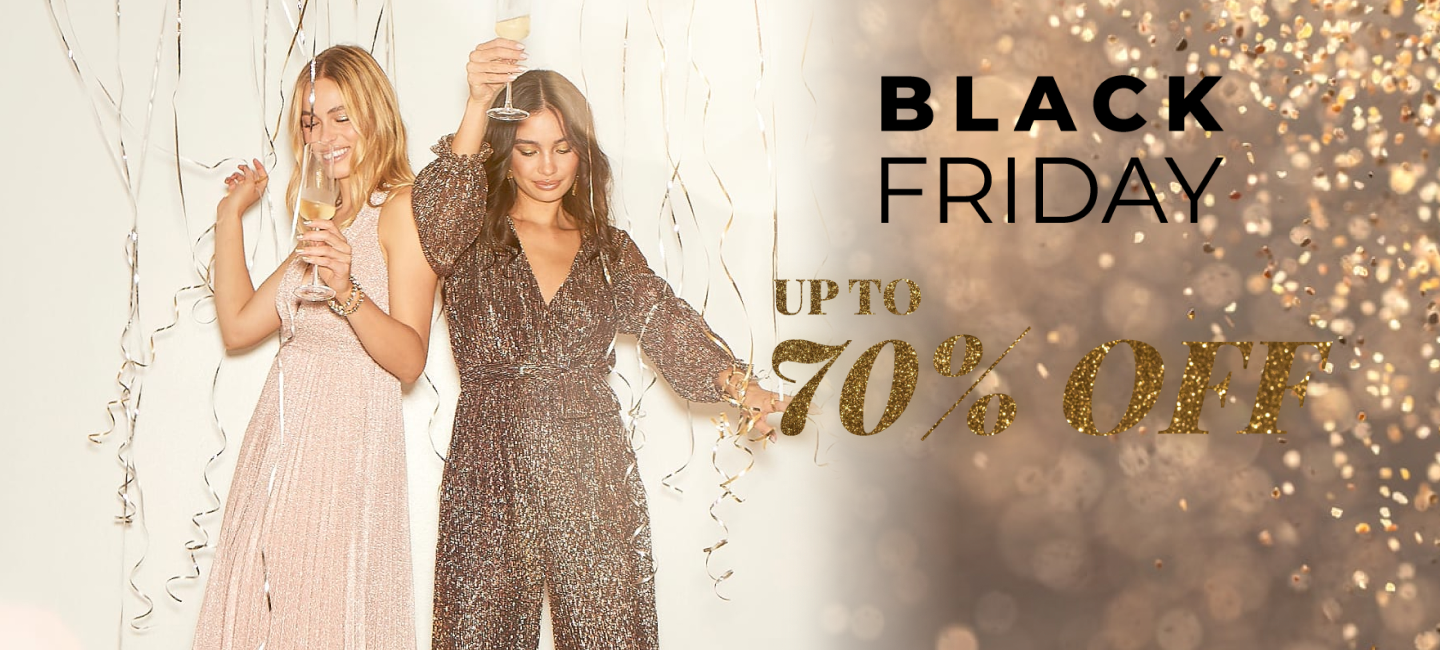
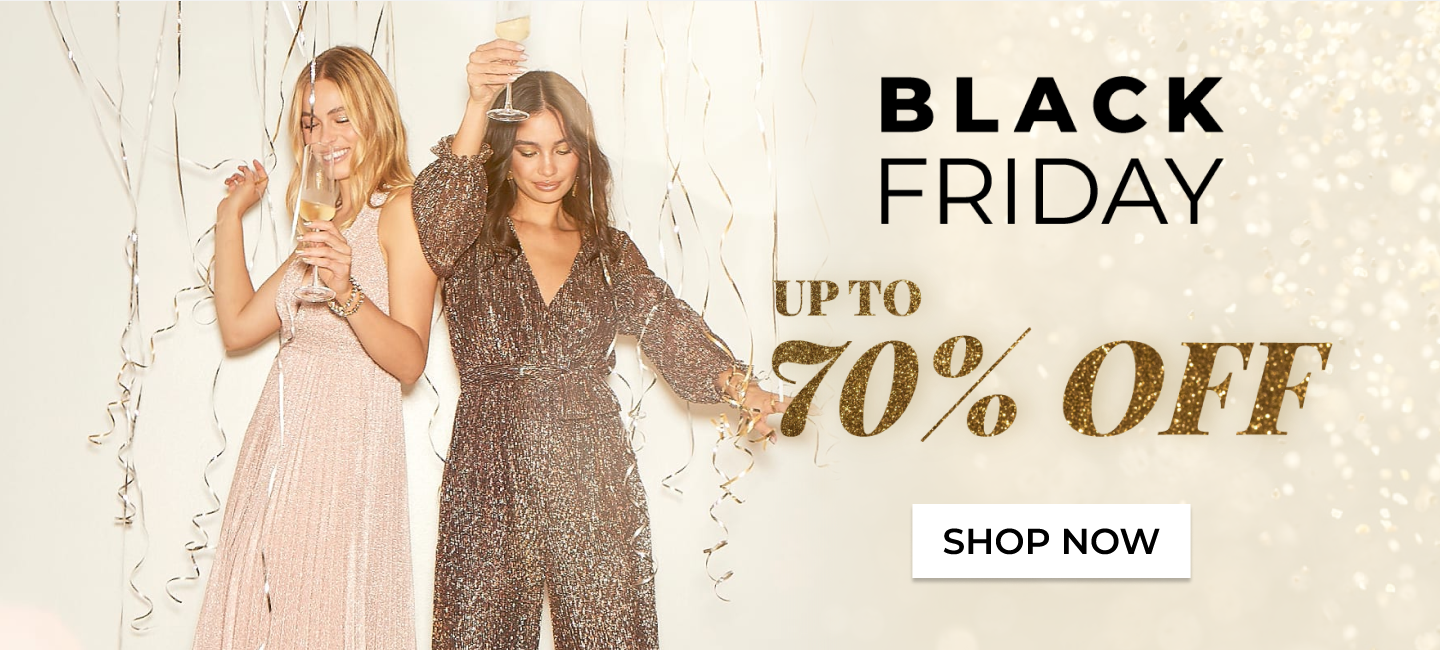
add changes for header and hero

diff --git a/index.html b/index.html
@@ -13,64 +13,64 @@
 </head>
 <body>
     <header>
-        <nav>
-            <div class="left-nav">
-                <ul>
-                    <li><a href="#" class="active">Women</a></li>
-                    <li><a href="#">Plus</a></li>
-                    <li><a href="#">Men</a></li>
-                    <li><a href="#">Accessories</a></li>
-                </ul>
-            </div>
-            <img src="./img/Logo.svg" alt="Threaded Logo">
-            <div class="right-nav">
-                <ul>
-                    <li><a href="#"><img src="./img/icons/bx_bx-user.svg" alt="User"></a></li>
-                    <li><a href="#"><img src="./img/icons/bx_bx-shopping-bag.svg" alt="Shopping Bag"></a></li>
-                    <li><a href="#"><img src="./img/icons/bx_bx-heart.svg" alt="Heart"></a></li>
-                    <li><a href="#"><img src="./img/icons/bx_bx-support.svg" alt="Support"></a></li>                    
-                </ul>
-                <div class="btn-currency">
-                    <img src="./img/icons/currency-US.png" alt="US Flag">
-                    <p>USD $</p>
-                    <svg width="10" height="10" viewBox="0 0 10 10" fill="none" xmlns="http://www.w3.org/2000/svg">
-                        <path d="M8.63283 2.5H7.90041C7.8506 2.5 7.80373 2.52441 7.77443 2.56445L5.00001 6.38867L2.22559 2.56445C2.19629 2.52441 2.14942 2.5 2.09961 2.5H1.36719C1.30371 2.5 1.2666 2.57227 1.30371 2.62402L4.74708 7.37109C4.87208 7.54297 5.12794 7.54297 5.25196 7.37109L8.69533 2.62402C8.73342 2.57227 8.69631 2.5 8.63283 2.5Z" fill="black"/>
-                    </svg>
-                </div>
+        <nav class="left-nav">
+            <ul>
+                <li><a href="#" class="active">Women</a></li>
+                <li><a href="#">Plus</a></li>
+                <li><a href="#">Men</a></li>
+                <li><a href="#">Accessories</a></li>
+            </ul>
+        </nav>
+        <img src="./img/Logo.svg" alt="Threaded Logo">
+        <nav class="right-nav">
+            <ul>
+                <li><a href="#"><img src="./img/icons/bx_bx-user.svg" alt="User"></a></li>
+                <li><a href="#"><img src="./img/icons/bx_bx-shopping-bag.svg" alt="Shopping Bag"></a></li>
+                <li><a href="#"><img src="./img/icons/bx_bx-heart.svg" alt="Heart"></a></li>
+                <li><a href="#"><img src="./img/icons/bx_bx-support.svg" alt="Support"></a></li>                    
+            </ul>
+            <div class="btn-currency">
+                <img src="./img/icons/currency-US.png" alt="US Flag">
+                <p>USD $</p>
+                <svg width="10" height="10" viewBox="0 0 10 10" fill="none" xmlns="http://www.w3.org/2000/svg">
+                    <path d="M8.63283 2.5H7.90041C7.8506 2.5 7.80373 2.52441 7.77443 2.56445L5.00001 6.38867L2.22559 2.56445C2.19629 2.52441 2.14942 2.5 2.09961 2.5H1.36719C1.30371 2.5 1.2666 2.57227 1.30371 2.62402L4.74708 7.37109C4.87208 7.54297 5.12794 7.54297 5.25196 7.37109L8.69533 2.62402C8.73342 2.57227 8.69631 2.5 8.63283 2.5Z" fill="black"/>
+                </svg>
             </div>
         </nav>
-        <div class="benefits">
-            <ul>
-                <li>
-                    <img src="./img/icons/bx_bx-crown.svg" alt="Crown">
-                    <span>Exclusive Deals for VIP 2 and up!</span>
-                </li>
-                <li>
-                    <img src="./img/icons/bx_bx-star.svg" alt="Crown">
-                    <span>Weekly New Arrivals</span>
-                </li>
-                <li>
-                    <img src="./img/icons/bx_bx-truck.svg" alt="Crown">
-                    <span>Free Shipping On Orders Over $100</span>
-                </li>
-                <li>
-                    <img src="./img/icons/bx_bx-map-pin.svg" alt="Crown">
-                    <span>Track Your Order</span>
-                </li>
-                <li>
-                    <img src="./img/icons/bx_bx-purchase-tag.svg" alt="Crown">
-                    <span>10% Off On Your First Order!</span>
-                </li>
-            </ul>
-        </div>
     </header>
 
-    <main>
-        <img src="./img/hero1.png" alt="black friday banner">
-        <button>Shop Now</button>
+    <section class="benefits">
+        <ul>
+            <li>
+                <img src="./img/icons/bx_bx-crown.svg" alt="Crown">
+                <span>Exclusive Deals for VIP 2 and up!</span>
+            </li>
+            <li>
+                <img src="./img/icons/bx_bx-star.svg" alt="Crown">
+                <span>Weekly New Arrivals</span>
+            </li>
+            <li>
+                <img src="./img/icons/bx_bx-truck.svg" alt="Crown">
+                <span>Free Shipping On Orders Over $100</span>
+            </li>
+            <li>
+                <img src="./img/icons/bx_bx-map-pin.svg" alt="Crown">
+                <span>Track Your Order</span>
+            </li>
+            <li>
+                <img src="./img/icons/bx_bx-purchase-tag.svg" alt="Crown">
+                <span>10% Off On Your First Order!</span>
+            </li>
+        </ul>
+    </section>
+
+    <main class="container">
+        <a href="#">
+            <img src="./img/hero1.png" alt="black friday banner">    
+        </a>
     </main>
 
-    <section class="deals">
+    <section class="container" id="deals">
         <div>
             <h3>$5 <span>off</span></h3>
             <p>on orders above $50</p>

diff --git a/css/main.css b/css/main.css
@@ -1,0 +1,109 @@
+*, *::before, *::after {
+  box-sizing: border-box;
+}
+
+* {
+  margin: 0;
+  padding: 0;
+  font: inherit;
+}
+
+html {
+  font-size: 62.5%;
+}
+
+body {
+  min-height: 100vh;
+}
+
+img {
+  display: block;
+}
+
+a {
+  text-decoration: none;
+  color: black;
+}
+
+ul {
+  list-style: none;
+}
+
+body {
+  font-family: "Montserrat", sans-serif;
+}
+
+li a:hover {
+  font-weight: 600;
+}
+
+.btn {
+  padding: 1em 2em;
+  background-color: #FFFFFF;
+  text-transform: uppercase;
+  font-size: 1.8rem;
+  font-weight: 600;
+}
+
+.btn-currency {
+  display: flex;
+  align-items: center;
+  padding: 0.6em;
+  border: 1px solid #F2F2F2;
+  border-radius: 3.5em;
+  cursor: pointer;
+}
+.btn-currency p {
+  margin-left: 0.3em;
+  margin-right: 1em;
+}
+
+/* Other Styles */
+.benefits ul, .benefits ul li {
+  display: flex;
+  align-items: center;
+}
+
+.benefits {
+  background-color: #F2F2F2;
+  padding-top: 7em;
+}
+.benefits ul {
+  padding: 1em 4em;
+  justify-content: space-between;
+  font-size: 1.2rem;
+}
+.benefits ul li {
+  gap: 1.5em;
+}
+
+#deals {
+  display: flex;
+  gap: 7.5em;
+}
+
+header {
+  display: flex;
+  align-items: center;
+  justify-content: space-between;
+  width: 100%;
+  position: fixed;
+  background-color: #FFFFFF;
+  padding: 1em 3em;
+  text-transform: uppercase;
+  font-size: 1.4rem;
+}
+
+.left-nav ul, .right-nav ul, .right-nav {
+  display: flex;
+  align-items: center;
+  gap: 1.5em;
+}
+.left-nav ul .active, .right-nav ul .active, .right-nav .active {
+  font-weight: 600;
+}
+
+.container {
+  max-width: 1440px;
+  margin: auto;
+}/*# sourceMappingURL=main.css.map */

diff --git a/scss/components/_header.scss b/scss/components/_header.scss
@@ -1,0 +1,23 @@
+@use '../abstract/colors';
+
+header{
+    display: flex;
+    align-items: center;
+    justify-content: space-between;
+    width: 100%;
+    position: fixed;
+    background-color: colors.$white;    
+    padding: 1em 3em;
+    text-transform: uppercase;
+    font-size: 1.4rem;
+}
+
+.left-nav ul, .right-nav ul, .right-nav {
+    display: flex;
+    align-items: center;
+    gap: 1.5em;
+
+    .active {
+        font-weight: 600;
+    }
+}

diff --git a/scss/components/_buttons.scss b/scss/components/_buttons.scss
@@ -1,0 +1,23 @@
+@use '../abstract/colors' as *;
+
+.btn {
+    padding: 1em 2em;
+    background-color: $white;
+    text-transform: uppercase;
+    font-size: 1.8rem;
+    font-weight: 600;
+}
+
+.btn-currency {
+    display: flex;
+    align-items: center;
+    padding: 0.6em;
+    border: 1px solid $gray;
+    border-radius: 3.5em;
+    cursor: pointer;
+
+    p{
+        margin-left: 0.3em;
+        margin-right: 1em;
+    }
+}

diff --git a/scss/components/_elements.scss b/scss/components/_elements.scss
@@ -1,0 +1,26 @@
+/* Other Styles */
+.benefits ul, .benefits ul li {
+    display: flex;
+    align-items: center;
+}
+
+.benefits {
+    background-color: #F2F2F2;
+    padding-top: 7em;
+
+    ul{
+        padding: 1em 4em;
+        justify-content: space-between;
+        font-size: 1.2rem;
+
+        li {
+            gap: 1.5em;
+        }
+    }
+}
+
+
+#deals {
+    display: flex;
+    gap: 7.5em;
+}

diff --git a/scss/base/_reset.scss b/scss/base/_reset.scss
@@ -1,0 +1,30 @@
+*, *::before, *::after {
+    box-sizing: border-box;
+}
+
+* {
+    margin: 0;
+    padding: 0;
+    font: inherit;
+}
+
+html {
+    font-size: 62.5%;
+}
+
+body {
+    min-height: 100vh;
+}
+
+img {
+    display: block;
+}
+
+a {
+    text-decoration: none;
+    color: black;
+}
+
+ul {
+    list-style: none;
+}

diff --git a/scss/main.scss b/scss/main.scss
@@ -1,0 +1,10 @@
+@use 'base/reset';
+@use 'base/typography';
+@use 'base/base';
+
+@use 'components/buttons';
+@use 'components/elements';
+@use 'components/header';
+
+@use 'utilities/containers';
+

diff --git a/scss/utilities/_containers.scss b/scss/utilities/_containers.scss
@@ -1,0 +1,4 @@
+.container {
+    max-width: 1440px;
+    margin: auto;
+}

diff --git a/scss/base/_base.scss b/scss/base/_base.scss
@@ -1,0 +1,5 @@
+li {
+    a:hover {
+       font-weight: 600; 
+    }
+}

diff --git a/scss/base/_typography.scss b/scss/base/_typography.scss
@@ -1,0 +1,3 @@
+body {
+    font-family: 'Montserrat', sans-serif;
+}

diff --git a/scss/abstract/_colors.scss b/scss/abstract/_colors.scss
@@ -1,0 +1,3 @@
+$black: #000000;
+$gray: #F2F2F2;
+$white: #FFFFFF;
